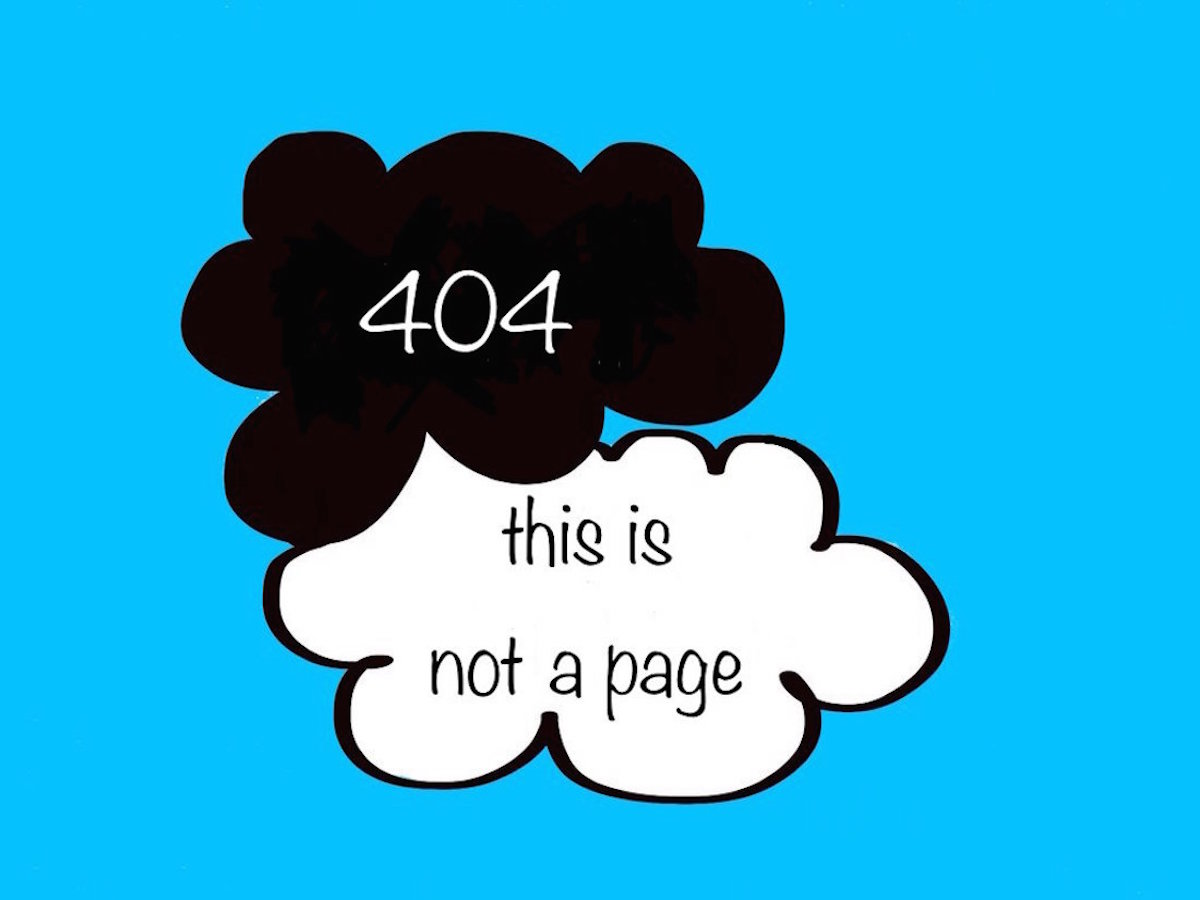
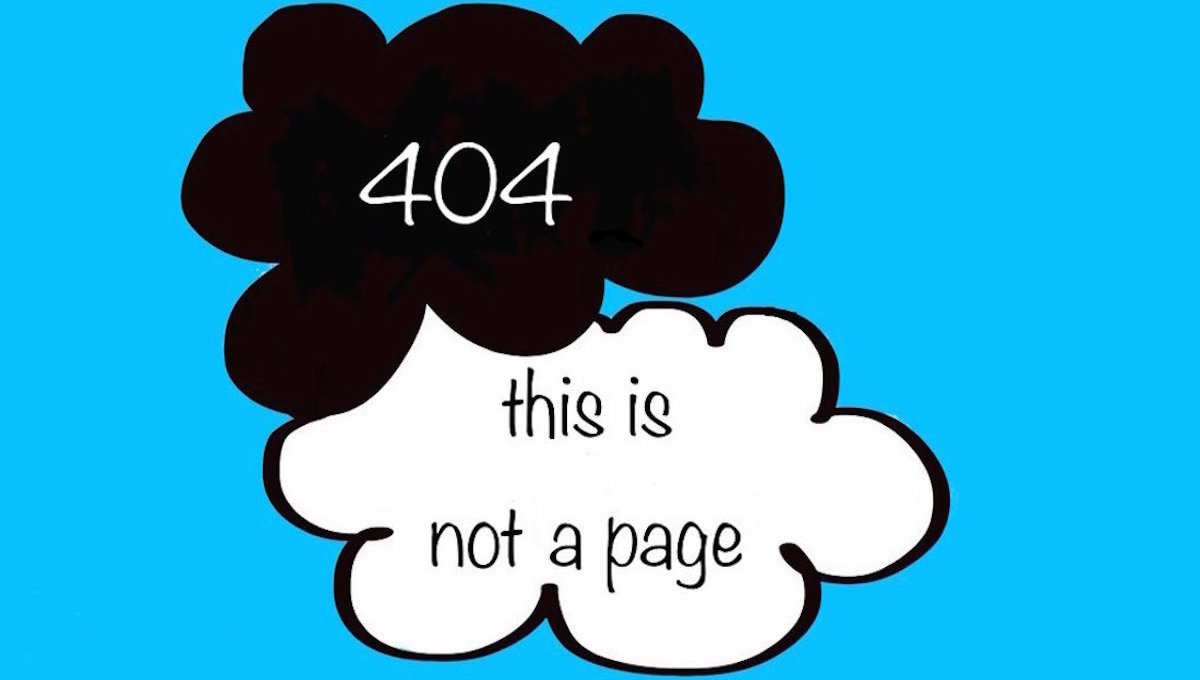
edited 404 page

diff --git a/public/css/missing.css b/public/css/missing.css
@@ -1,7 +1,5 @@
 body {
-	/*background-image: url('/img/tfios_okay_copy.jpg');*/
-	/*background-repeat: no-repeat;*/
-	background-color: #1BC2EC;
+	background-color: #28C1FC;
 }
 
 #four-oh-four {
